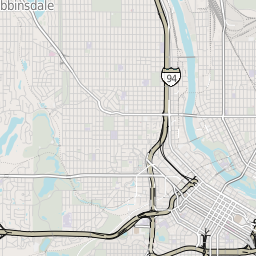
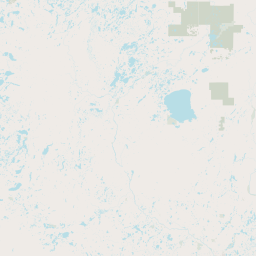
Added neighborhoods shapefile, tweaked styles

Changed region(s): [[0.0, 0.0, 1.0, 1.0], [0.2188, 0.8125, 0.25, 0.8438], [0.0938, 0.1562, 0.125, 0.1875]]

diff --git a/configure.py b/configure.py
@@ -6,11 +6,11 @@ Configures this MapBox project to work with your local PostGIS server.
 #
 
 # PostGIS connection setup
-dbname   = "osm_california"
+dbname   = "osm_minnesota"
 host     = "localhost"
 port     = "5432"
-user     = "postgres"
-password = "postgres"
+user     = ""
+password = ""
 
 
 # For postgres layers mapnik by default will query postgis for the
@@ -19,7 +19,8 @@ password = "postgres"
 # specifying a bounding box in the format of "XMIN,YMIN,XMAX,YMAX" in the
 # same units as the database (probably spherical mercator meters). The
 # whole world is "-20037508.34,-20037508.34,20037508.34,20037508.34".
-extent = "-13849828.38,3833234.22,-12705175.77,5162381.7"
+#extent = "-13849828.38,3833234.22,-12705175.77,5162381.7"
+extent = "-20037508.34,-20037508.34,20037508.34,20037508.34"
 
 # osm2pgsql table prefix - only change this is you explicitly imported
 # with a custom prefix (--prefix)
